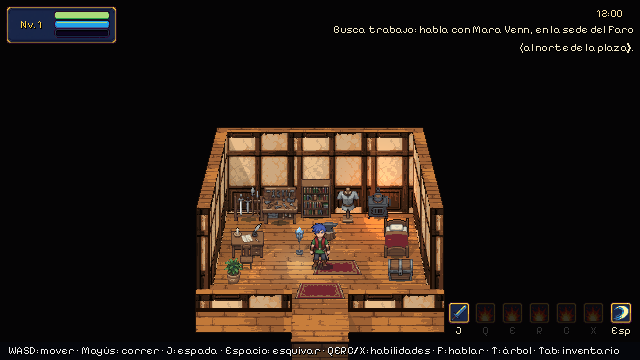
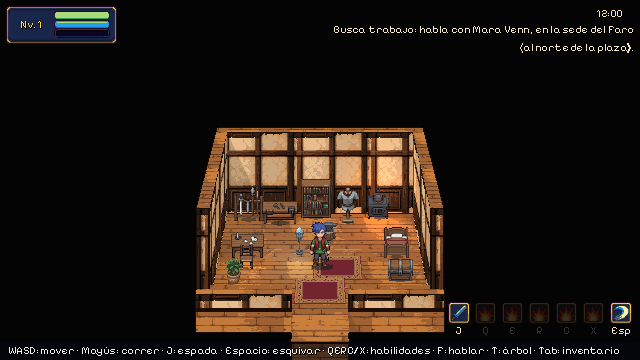
Un solo ángulo en los muebles y un solo tamaño de piedra
- Muebles redibujados con la cámara baja del juego (tablas y asientos como franjas finas): mesa larga,
  barra recta, banco de trabajo, mesa de mapas, cama, mesa redonda, escritorio, silla y banco de calle.
  La alfombra, dibujada en planta porque se tumba en el suelo.
- Sillares de un solo tamaño (unos 10 x 5 px, como las casas y la muralla): puerta de la ciudad, arco
  del patio, pozo, chimeneas y muro bajo redibujados; la roca de los taludes, a la mitad de tamaño.
- Hojas nuevas de Figma en art/ai/frente (muebles_c, muebles_d, piedra, puerta), registradas en
  art/FUENTES.md; reglas de ángulo y de piedra en docs/guia_de_arte.md.
- Puerta con torres y faroles recolocados; alfombras de las salas apartadas del felpudo.

Claude-Session: https://claude.ai/code/session_01CGB3MRBqj8DMSodyryv1gJ

diff --git a/tools/art_pipeline/build.py b/tools/art_pipeline/build.py
@@ -376,6 +376,14 @@ def terrain():
     for (r, c), name in {(0, 0): "grass", (0, 1): "dirt", (1, 0): "cobble", (1, 1): "cliff"}.items():
         if name in v2.replaces():  # drawn again in the second pass (v2.ground)
             continue
+        if name == "cliff":  # its rocks came out 25 px across, twice the houses' stones: half the size, 2 x 2 in a tile
+            rock = texture(g[r][c], 8, 20, band=7)
+            tile = Image.new("RGBA", (rock.width * 2, rock.height * 2))
+            for x in (0, rock.width):
+                for y in (0, rock.height):
+                    tile.paste(rock, (x, y))
+            save(tile, "environment", "textures", "cliff.png")
+            continue
         save(texture(g[r][c], 4, 20, band=14, flatten=8.0 if name == "grass" else 0.0),
              "environment", "textures", name + ".png")
     return OUT / "environment" / "textures"
@@ -1032,13 +1040,19 @@ def interiors():
 # The camera looks north with vertical edges kept vertical (docs/guia_de_arte.md, 2): objects drawn in a
 # diagonal or isometric view looked crooked next to the houses. These sheets redraw them facing the
 # camera; each is shrunk to its height in game px (25 px per metre) and snapped to the master palette.
-FRENTE = {
+FRENTE = {  # sheet -> its cells row by row (4 x 4 unless FRENTE_GRID says otherwise); later sheets win
     "objetos_calle": ["bench", "crate", None, "notice_board", "planter", "trough", "low_wall", "flower_cart",
                       "hay_cart", "well", "firewood", "fence", "fence_gate", "chalkboard", "barrel_stack", "weapon_rack"],
     "puestos": ["merchant_wagon", "cloth_cart", "potion_stall", "smith_stall", "food_stall", "fortune_tent",
                 "town_arch", "dormer", "chimney", "wall_lantern", "hay_bale", "sacks",
                 "chest:0", "chest:1", "chest:2", "chest:3"],
+    # 2 de noviembre, second round: the same camera angle for every piece (tops as thin strips) and the
+    # same stone size as the houses' ground floors (about 10 x 5 px a block)
+    "muebles_c": [None, "barra", "banco_trabajo", None, None, "escritorio", None, "bench", "silla"],
+    "muebles_d": ["mesa_larga", "mesa_mapas", "cama", "mesa_redonda"],
+    "piedra": ["town_arch", "well", "chimney", "chimenea", "alfombrilla", "low_wall"],
 }
+FRENTE_GRID = {"muebles_c": (3, 3), "muebles_d": (2, 2), "piedra": (2, 3)}
 FRENTE_HEIGHT = {
     "bench": 24, "crate": 22, "notice_board": 50, "planter": 18, "trough": 20, "low_wall": 22, "flower_cart": 30,
     "hay_cart": 32, "well": 50, "firewood": 22, "fence": 24, "fence_gate": 28, "chalkboard": 27, "barrel_stack": 30,
@@ -1065,16 +1079,20 @@ def frente():
     for sheet, names in FRENTE.items():
         rgb = px.load(SRC / "frente" / f"{sheet}.png")
         bg = px.dominant_border_colour(rgb)
-        cells = sheets.cut_grid(rgb, 4, 4, inset=2)
+        rows, cols = FRENTE_GRID.get(sheet, (4, 4))
+        cells = sheets.cut_grid(rgb, rows, cols, inset=2)
         for i, name in enumerate(names):
             if name is None:
                 continue
-            im = cropped(flood_key(cells[i // 4][i % 4], 70.0, bg=bg, main_only=True, spill="all"))  # "all": the magenta in gaps too
+            im = cropped(flood_key(cells[i // cols][i % cols], 70.0, bg=bg, main_only=True, spill="all"))  # "all": the magenta in gaps too
             if name.startswith("chest:"):
                 chest[int(name[6:])] = im
                 continue
-            im = unify.master(_sized(im, name, FRENTE_HEIGHT, FRENTE_WIDTH), keep=FIRE)
-            save(im, "environment", "props", name + ".png")
+            if name in FURNITURE_HEIGHT:  # a piece of furniture redrawn here: interior folder and sizes
+                save(unify.master(_sized(im, name, FURNITURE_HEIGHT, FURNITURE_WIDTH), saturation=0.7, value=1.05, keep=FIRE),
+                     "environment", "props", "interior", name + ".png")
+                continue
+            save(unify.master(_sized(im, name, FRENTE_HEIGHT, FRENTE_WIDTH), keep=FIRE), "environment", "props", name + ".png")
     rgb = px.load(SRC / "frente" / "puerta.png")
     gate = cropped(flood_key(rgb, 70.0, bg=px.dominant_border_colour(rgb), main_only=True, spill="all"))
     save(unify.master(unify.shrink(gate, FRENTE_HEIGHT["town_gate"]), keep=FIRE), "environment", "props", "town_gate.png")

diff --git a/tools/levels/interiors.py b/tools/levels/interiors.py
@@ -189,14 +189,14 @@ INTERIORS = {
         title="Tienda de Nara", building="TiendaDeNara", floor="floor_planks", size=(9.5, 7.0), ambient=0.9,
         props=[("vitrina_pociones", 0.0, 2.0), ("estante_pociones", -1.6, 0.4), ("estante_botellas", 1.6, 0.4),
                ("estanteria", 3.3, 0.4), ("armario", -3.4, 0.45), ("cajas_mercancia", -3.6, 1.9), ("sacos_harina", -3.6, 3.2),
-               ("barril_grifo", 3.8, 2.6), ("candelabro", 1.7, 1.8), ("planta", -3.9, 5.8), ("alfombrilla", 0.0, 4.8)],
+               ("barril_grifo", 3.8, 2.6), ("candelabro", 1.7, 1.8), ("planta", -3.9, 5.8), ("alfombrilla", 0.0, 3.4)],
     ),
     "taller_elia": dict(
         title="Taller de Elia", building="CasaDeElia", floor="floor_planks", size=(9.5, 7.0), ambient=0.85,
         props=[("banco_trabajo", -2.0, 0.9), ("estanteria", -0.2, 0.4), ("maniqui_cota", 1.4, 0.8), ("fogon", 3.0, 0.45),
                ("armero", -3.6, 0.6), ("yunque", 0.4, 2.4), ("cama", 3.6, 3.8), ("arcon", 3.6, 5.6),
                ("escritorio", -3.4, 3.8), ("silla", -3.4, 4.7), ("lampara_cristal", -1.0, 3.6),
-               ("alfombrilla", 0.8, 4.6), ("planta", -3.9, 5.8)],
+               ("alfombrilla", 0.8, 3.5), ("planta", -3.9, 5.8)],
     ),
 }
 

diff --git a/art/FUENTES.md b/art/FUENTES.md
@@ -252,3 +252,16 @@ Frase común de cámara añadida a la plantilla (va en todos los prompts de obje
 | `puestos.png` | Carromato, carretilla de telas, pociones, herrero, comida, tienda de la adivina, arco de piedra, buhardilla, chimenea, farol de pared, paca de heno, sacos y el cofre abriéndose en 4 fotogramas. | Todo aprovechable. |
 | `puerta.png` | Gran puerta de la ciudad, simétrica y de frente. | Sustituye a la de tres cuartos, que se veía torcida. |
 | `muebles_a.png`, `muebles_b.png` | Los 32 muebles de interior, en el orden de `FURNITURE`. | La barra sale en L; se acepta. |
+
+Segunda ronda (mismo día, nodos 2:2 a 2:5), para igualar el ángulo de los muebles y el tamaño de la piedra:
+
+| Archivo | Contenido | Notas de revisión |
+|---|---|---|
+| `muebles_c.png` (3 × 3) | Barra recta, banco de trabajo, escritorio, banco de calle y silla con la cámara baja (tablas como franjas finas). | La mesa larga, la de mapas, la cama y la mesa redonda salieron vistas desde más arriba: se rehicieron en `muebles_d`. |
+| `muebles_d.png` (2 × 2) | Mesa larga con banco, mesa de mapas, cama vista desde los pies y mesa redonda de pie central, en alzado casi frontal. | Todo aprovechable. |
+| `piedra.png` (2 × 3) | Arco de piedra, pozo, chimenea, chimenea de interior, alfombra vista desde arriba y muro bajo, con sillares de un solo tamaño. | La alfombra se dibuja en planta porque se tumba en el suelo. |
+| `puerta.png` | La puerta otra vez, con sillares grandes (unas 16 hiladas por torre), como la planta baja de piedra de las casas. | Sustituye a la de la mañana, de ladrillo menudo. |
+
+Frases añadidas a la plantilla: para muebles, *«every horizontal surface appears as a THIN foreshortened strip,
+much less tall than the piece's legs or front panel»*; para piedra, *«small rectangular warm grey stone blocks
+about twice as wide as tall, laid in regular courses, like the stone ground floor of a timber-framed house»*.

diff --git a/docs/auditoria_arte.md b/docs/auditoria_arte.md
@@ -94,6 +94,17 @@ igualados en 2,5-2,8 m, **árboles** de 3,6 a 5 m, y los muebles y objetos largo
 valla, abrevadero) medidos por su largo. Tabla completa en `docs/guia_de_arte.md` («Escala única del
 mundo»). Capturas en `docs/screenshots/escala/`.
 
+## Lote 4: un solo ángulo y un solo tamaño de piedra (implementado y probado)
+
+- **Ángulo**: la mesa larga, la barra en L, el banco de trabajo, la mesa de mapas, la cama, la mesa
+  redonda, el escritorio, la silla y el banco de la calle estaban dibujados desde más arriba que la
+  cámara (se veía la tabla entera). Redibujados con la cámara baja (tablas como franjas finas). La
+  alfombra, que se tumba en el suelo, ahora está dibujada en planta (antes se acortaba dos veces).
+- **Piedra**: la puerta, el pozo, las chimeneas y la chimenea de interior tenían sillares de 6 × 3 px, el
+  arco de 15 × 8 y la roca de los taludes de 25 × 20, frente a los 10 × 5 de las casas y la muralla.
+  Puerta, arco, pozo, chimeneas y muro redibujados con un solo tamaño de sillar; la roca, rehecha desde
+  su fuente a la mitad de tamaño.
+
 ## Diseñado (herramientas listas)
 
 - **Paleta maestra** (`art/paleta/maestra.png`, `.gpl` para Aseprite/GIMP/Krita, `.json`): 69

diff --git a/docs/guia_de_arte.md b/docs/guia_de_arte.md
@@ -193,3 +193,13 @@ Alturas de referencia (con la cara superior que se ve desde la cámara):
 Las recetas aplican estas medidas (`SIZE_FIX`, `FRENTE_HEIGHT`, `FRENTE_WIDTH`, `FURNITURE_HEIGHT`,
 `FURNITURE_WIDTH` en `tools/art_pipeline/build.py`): un objeto crece reduciendo menos la fuente (más
 píxeles), nunca agrandando el sprite.
+
+**Ángulo único.** La cámara baja unos 28°: una superficie horizontal se ve con la mitad de su fondo
+(sen 28° ≈ 0,47) y una vertical casi entera (cos 28° ≈ 0,88). Por eso el tablero de una mesa, el asiento
+de un banco o el colchón de una cama son **franjas finas**, más bajas que las patas o el frente; si se ve la
+tabla entera, el dibujo está hecho desde más arriba y no casa. Lo que se tumba en el suelo (alfombras,
+grietas) se dibuja **en planta**: la cámara ya lo acorta.
+
+**Un solo tamaño de piedra.** Sillares y ladrillos de unos **10 × 5 px** (40 × 20 cm), como la planta baja
+de las casas y la muralla, en todo lo que sea de piedra: puertas, torres, arcos, pozos, chimeneas, muros y
+la roca de los taludes (piedras de unos 12 px).
